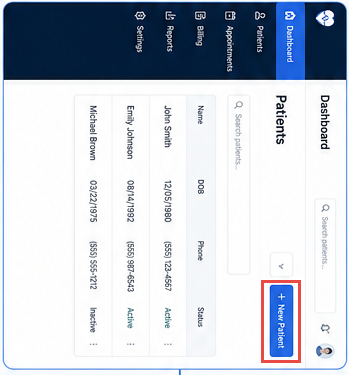
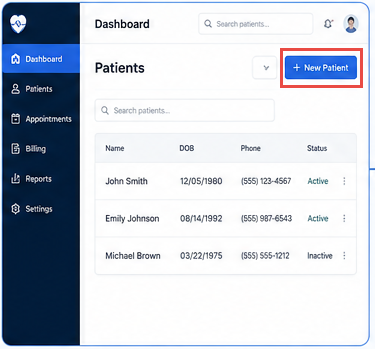
userguide files updated

diff --git a/docs/UserGuide/Register a patient.md b/docs/UserGuide/Register a patient.md
@@ -1,54 +1,59 @@
+# Register a Patient
+
 Create a complete patient profile for care coordination by following the registration process below.
 
+## Steps to Follow
 
-# Steps To Follow
+1. Log in to the Patient Management Portal using your authorized username and password.
 
-Log in to the Patient Management Portal using your authorized username and password.
+     ![Patient Login Screen](../assets/patient-portal.png)
 
-Select New Patient from the dashboard to start a new registration.
+2. Select **New Patient** from the dashboard.
 
-Fill in the patient's:
-- Full Name
-- Date of Birth
-- Gender or Title
-- Phone Number
-- Email Address
+    ![New Patient](../assets/new-patient.png)
 
-Provide:
+3. Enter the patient's information:
 
-- Current Address
-- Emergency Contact Name
-- Emergency Contact Phone Number
+    - Full Name
+    - Date of Birth
+    - Gender or Title
+    - Phone Number
+    - Email Address
+
+        ![New Record](../assets/new-record.png)
+
+4. Enter the patient's address details:
+
+    - Current Address
+    - Emergency Contact Name
+    - Emergency Contact Phone Number
+
+5. Enter any required information:
+
+    - Insurance Number
+    - Identification Number
+
+6. Review all entered information.
+
+7. Click **Submit** to create the patient profile.
+
+    ![Submit](../assets/Submit.png)
+
+
+8. Verify that the patient record has been created successfully.
 
 ---
 
-Enter any required:
+## Verify the Registration
 
-- Insurance Number
-- Identification Number
-
-Review all entered information carefully before submitting the registration.
-
-Click **Submit** to create the patient profile.
-
-After submission, verify that the patient record is successfully created.
-
----
-
-# Verify the Registration
-
-> ✔ Confirm the patient record appears in the system.
-
-> ✔ Verify the status is **Active** or **Complete**.
-
-> ✔ If required information is missing, update the record before scheduling appointments.
+- Confirm the patient record appears in the system.
+- Verify the status is **Active** or **Complete**.
+- Update the record if any required information is missing.
 
 ---
 
 ## Next Steps
 
-Once registration is complete, continue with:
-
-- Appointment Scheduling
-- Intake Review
+- Book an Appointment
+- Manage Appointments
 - Care Coordination
